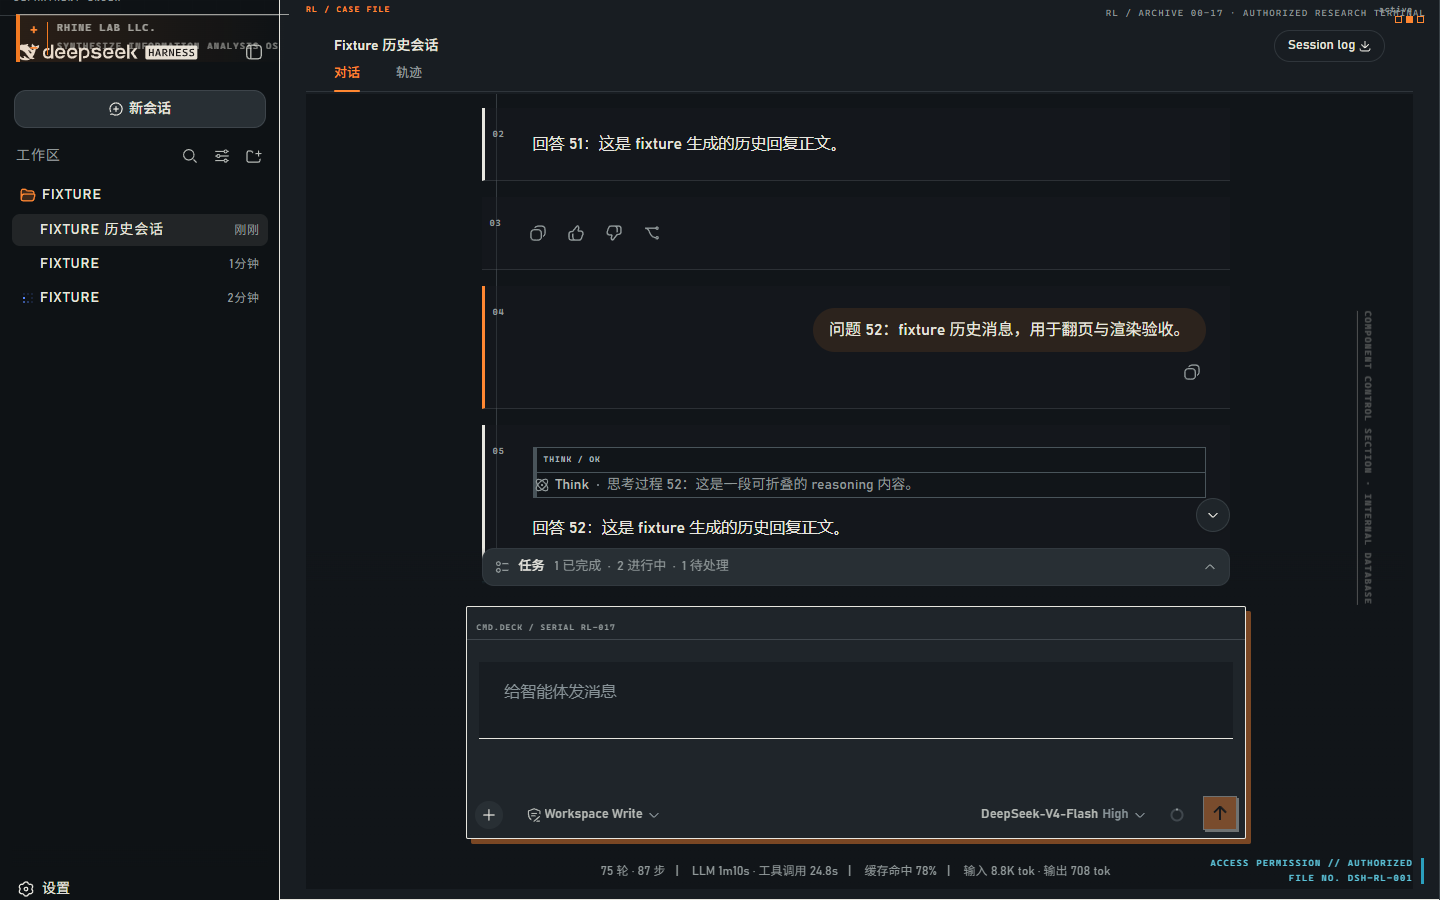
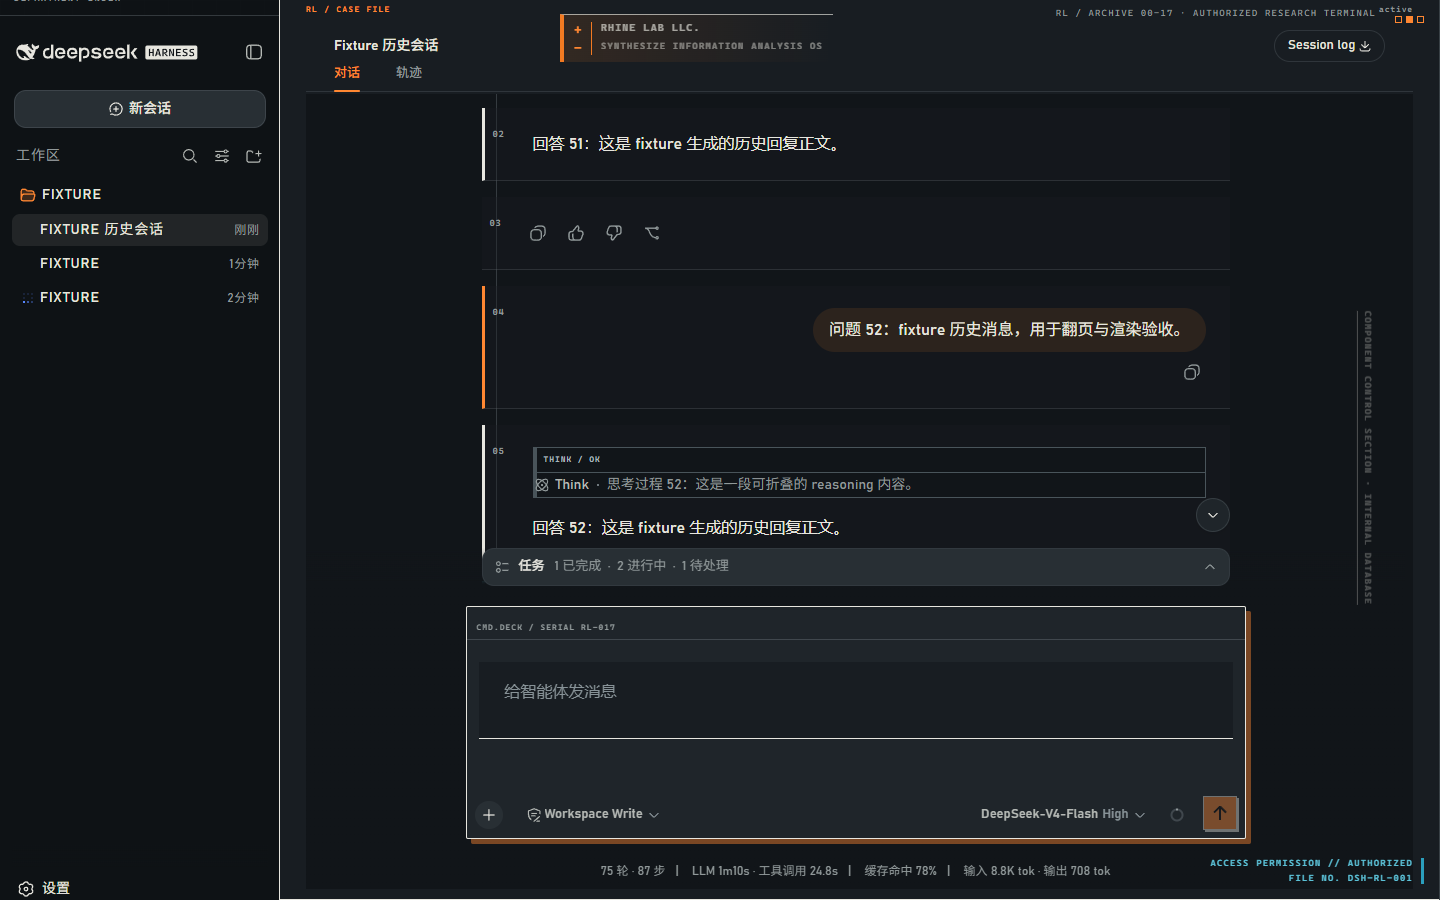
docs: recapture unobstructed Rhine previews

Changed region(s): [[0.375, 0.0, 0.5625, 0.0933], [0.0, 0.0, 0.1875, 0.0622], [0.75, 0.0, 0.9688, 0.0311]]

diff --git a/lib/client.js b/lib/client.js
@@ -17,16 +17,16 @@ window.__ModuleLoader__.load({
 			document.head.appendChild(tag);
 		}
 		var RhineLabRow_module_css_default = {
-			"group": "FIu8dW_group",
 			"badge": "FIu8dW_badge",
-			"desc": "FIu8dW_desc",
-			"head": "FIu8dW_head",
-			"copy": "FIu8dW_copy",
+			"group": "FIu8dW_group",
 			"title": "FIu8dW_title",
-			"segOn": "FIu8dW_segOn",
-			"rhine-seal-pulse": "FIu8dW_rhine-seal-pulse",
 			"seg": "FIu8dW_seg",
-			"segBtn": "FIu8dW_segBtn"
+			"copy": "FIu8dW_copy",
+			"desc": "FIu8dW_desc",
+			"segBtn": "FIu8dW_segBtn",
+			"rhine-seal-pulse": "FIu8dW_rhine-seal-pulse",
+			"head": "FIu8dW_head",
+			"segOn": "FIu8dW_segOn"
 		};
 		//#endregion
 		//#region src/client/RhineLabRow.tsx
@@ -89,15 +89,15 @@ window.__ModuleLoader__.load({
 			document.head.appendChild(tag);
 		}
 		var RhineLabHud_module_css_default = {
-			"root": "_ptYEG_root",
 			"validation": "_ptYEG_validation",
-			"plate": "_ptYEG_plate",
-			"rhine-hud-validation": "_ptYEG_rhine-hud-validation",
-			"company": "_ptYEG_company",
 			"system": "_ptYEG_system",
 			"mark": "_ptYEG_mark",
+			"root": "_ptYEG_root",
+			"rhine-hud-validation": "_ptYEG_rhine-hud-validation",
+			"plate": "_ptYEG_plate",
 			"access": "_ptYEG_access",
-			"edge": "_ptYEG_edge"
+			"edge": "_ptYEG_edge",
+			"company": "_ptYEG_company"
 		};
 		//#endregion
 		//#region src/client/RhineLabHud.tsx
